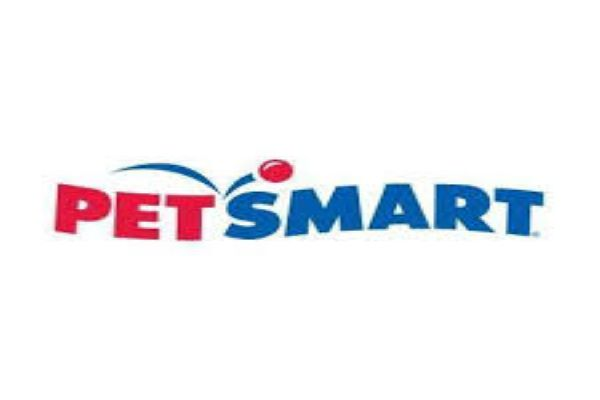
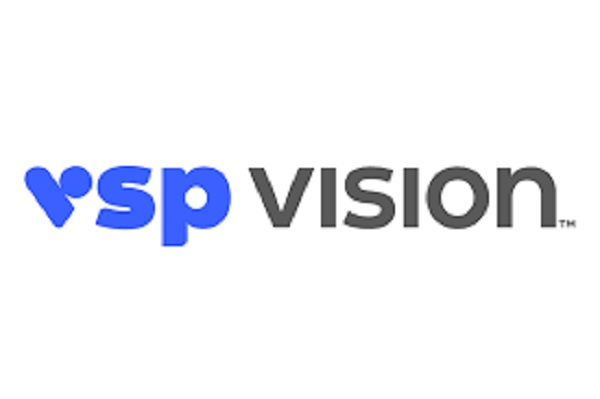
various verbiage and formatting changes

Changed region(s): [[0.03, 0.391, 0.96, 0.6316]]

diff --git a/index.html b/index.html
@@ -145,10 +145,10 @@
 	                    <div class="about-us-box-text">
 	                    	<h3>About Me</h3>
 	                    	<p class="medium-paragraph">
-	                    		I am currently a student pursuing a Bachelor's degree for Computer Science from Sacramento State University.
+	                    		I am a new grad with a Bachelor's degree in Computer Science from Sacramento State University.
 	                    	</p>
 	                    	<p>
-	                    		I've been coding since I was in high school, and have dabbled in many languages both for classes and for my own enjoyment alike!
+	                    		I've been coding since I was in high school, and have used many languages both professionally and in formal education!
 	                    	</p>
 	                    	<p>
 	                    		I have a great work ethic, as well as excellent communication and leadership skills. 
@@ -156,7 +156,7 @@
 	                    	</p>
 							<p>
 								I started working full time as a developer at a Law Firm in 2021 and have grown tremendously since accepting that offer.
-								I am now working there part time, while finishing up my Bachelor's Degree. 
+								I am now working as a software engineering intern at VSP Vision care. 
 							</p>
 	                    </div>
 	                </div>
@@ -259,7 +259,11 @@
 	                <div class="col portfolio section-description wow fadeIn">
 	                    <h2>Work experience</h2>
 	                    <div class="divider-1 wow fadeInUp"><span></span></div>
-	                    <p>My experience that has prepared me well for my future.</p>
+	                    <p>
+							I have over 2 years of professional software development experience, 
+							all of which took place in an Agile Scrum environment.
+							Below is only work experience I have as it relates to the field of Computer Science.
+						</p>
 	                </div>
 	            </div>
 	            <div class="row">
@@ -271,22 +275,28 @@
                 		<div class="portfolio-box-date"><i class="far fa-calendar"></i> January 2016- December 2016</div>
                 		<p>Worked in a SCRUM/Agile environment to complete web development and cyber security related tasks. See projects on github.</p>
                     </div>
-                    <div class="col-md-4 portfolio-box wow fadeInDown">
-	                	<div class="portfolio-box-image">
-	                		<img src="assets/img/portfolio/2.jpg" alt="" data-at2x="assets/img/portfolio/2.jpg">
-	                	</div>
-                		<h3><a href="#">Petsmart Associate Lead</a> <i class="fas fa-angle-right"></i></h3>
-                		<div class="portfolio-box-date"><i class="far fa-calendar"></i>May 2019 - June 2021</div>
-                		<p>Effectively lead and motivated teams using communication skills.</p>
-                    </div>
                     <div class="col-md-4 portfolio-box wow fadeInUp">
 	                	<div class="portfolio-box-image">
 	                		<img src="assets/img/portfolio/3.jpg" alt="" data-at2x="assets/img/portfolio/3.jpg">
 	                	</div>
                 		<h3><a href="https://www.nelson-kennard.com/" target="_blank">Nelson & Kennard</a> <i class="fas fa-angle-right"></i></h3>
                 		<div class="portfolio-box-date"><i class="far fa-calendar"></i> June 2021 - Present</div>
-                		<p>Automate important processes to reduce head count. Generate documentation on software requirements.
+                		<p>
+							Automate important processes to reduce head count. Generate documentation on software requirements.
 							Work as part of a team to maintain quality and supportabillity of code. Work with a 1.5 million row MySQL database. 
+						</p>
+                    </div>
+					<div class="col-md-4 portfolio-box wow fadeInDown">
+	                	<div class="portfolio-box-image">
+	                		<img src="assets/img/portfolio/2.jpg" alt="" data-at2x="assets/img/portfolio/2.jpg">
+	                	</div>
+                		<h3><a href="#">VSP Vision Care</a> <i class="fas fa-angle-right"></i></h3>
+                		<div class="portfolio-box-date"><i class="far fa-calendar"></i>April 2022 - Present</div>
+                		<p>
+							Develop and maintain the Client and Broker Portal front end and APIs.
+							Use CI/CD pipelines to release changes to production environments.
+							Work as a technician on the Delphix team to virtualize and manage the databases of multiple teams.
+							Part of a team effort to develop and implement coding standards to increase product quality and supportability of code.
 						</p>
                     </div>
 	            </div>
@@ -334,7 +344,7 @@
                 				<div class="testimonial-text">
                 					<h2>Sacramento State University</h2>
 	                                <p>
-	                                	Will be graduating with my Bachelors in Science for Computer Science<br>
+	                                	Graduated with my Bachelors in Science for Computer Science<br>
 	                                	<a href="https://www.csus.edu/">Website</a>
 	                                </p>
                                 </div>
@@ -365,11 +375,20 @@
         <!-- Footer -->
         <footer>
 	        <div class="container">
-	        	<div class="row">
-                    <div class="col-md-5 footer-left">
+                <div class="row">
+                	<div class="col footer-bottom">
+		           		<a class="scroll-link" href="#top-content"><i class="fas fa-chevron-up"></i></a>
+		           	</div>
+                </div>
+				<div class="row">
+                    <!--<div class="col-md-5 footer-middle">
                     	<p> Portfolio Site Created by Jonny Cross</p>
                     </div>
-                    
+					-->
+					<div class="col">
+						<p> Portfolio Site Created by Jonny Cross</p>
+					</div>
+					<!-- 
                     <div class="col-md-6 offset-md-1 footer-right">
                     	<a href="#"><i class="fab fa-facebook-f"></i></a>
 						<a href="#"><i class="fab fa-dribbble"></i></a>
@@ -377,11 +396,7 @@
 						<a href="https://www.instagram.com/jonnycross10/"><i class="fab fa-instagram"></i></a>
 						<a href="https://www.pinterest.com/crossjonny5/"><i class="fab fa-pinterest"></i></a>
                     </div>
-                </div>
-                <div class="row">
-                	<div class="col footer-bottom">
-		           		<a class="scroll-link" href="#top-content"><i class="fas fa-chevron-up"></i></a>
-		           	</div>
+					-->
                 </div>
 	        </div>
         </footer>

diff --git a/assets/css/style.css b/assets/css/style.css
@@ -493,11 +493,11 @@ footer {
 	padding: 40px 0 0 0;
 	background: #444;
 	color: #aaa;
-	text-align: left;
+	text-align: center;
 }
 
-.footer-left a { color: #ddd; border-bottom: 1px dashed #ddd; }
-.footer-left a:hover, .footer-left a:focus { color: #ddd; border: 0; }
+.footer-middle a { color: #ddd; border-bottom: 1px dashed #ddd; text-align: center;}
+.footer-middle a:hover, .footer-middle a:focus { color: #ddd; border: 0; }
 
 .footer-right {
 	text-align: right;
